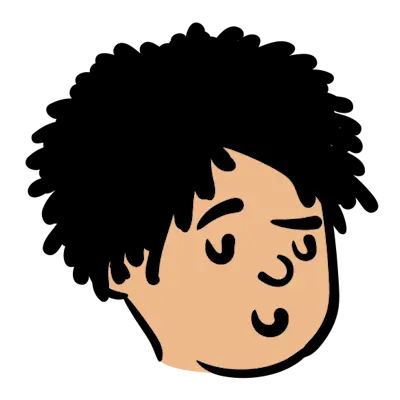
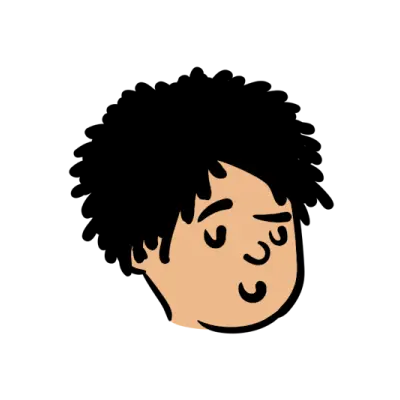
fix: last small changes

diff --git a/src/modules/landing/home/UserTestimoniesSection.tsx b/src/modules/landing/home/UserTestimoniesSection.tsx
@@ -11,41 +11,46 @@ const Testimonies = [
   {
     name: 'Tom',
     title: 'Student',
-    image: '/illustration/users/peeps5_n.webp',
+    image: '/illustration/users/peeps1.webp',
     text: 'I really liked working with Graasp, it motivates the students and they want to learn on their own.',
   },
   {
     name: 'Hanna',
-    image: '/illustration/users/peeps3_n.webp',
+    image: '/illustration/users/peeps2.webp',
     text: 'Graasp is awesome, I think you should use it.',
   },
   {
     name: 'Hank from Tank',
-    image: '/illustration/users/peeps8_n.webp',
+    image: '/illustration/users/peeps3.webp',
     text: 'From the very first interaction, I felt genuinely cared for and supported. The level of professionalism and attention to detail is unmatched, and the team went above and beyond to ensure that every need was met.',
   },
   {
     name: 'Captain Cook',
     title: 'Great explorer, unfortunately recently deceased',
-    image: '/illustration/users/peeps2_n.webp',
+    image: '/illustration/users/peeps4.webp',
     text: "I can't speak highly enough about my experience with Graasp. From start to finish, they made the entire process seamless and stress-free. Their expertise and dedication were evident in every step, and they truly went the extra mile to make sure I was satisfied.",
   },
   {
     name: 'Frizbelouski',
     title: 'Professional bowler in the US',
-    image: '/illustration/users/peeps1_n.webp',
+    image: '/illustration/users/peeps5.webp',
     text: 'From the very first interaction, I felt genuinely cared for and supported. The level of professionalism and attention to detail is unmatched, and the team went above and beyond to ensure that every need was met.',
   },
   {
     name: 'Tobby Kenoby',
     title: 'Master Jedi',
-    image: '/illustration/users/peeps7_n.webp',
+    image: '/illustration/users/peeps6.webp',
     text: 'Just great!',
   },
   {
     name: 'Stranger',
-    image: '/illustration/users/peeps4_n.webp',
+    image: '/illustration/users/peeps7.webp',
     text: "Haven't used too much...",
+  },
+  {
+    name: 'Moon Explorer',
+    image: '/illustration/users/peeps8.webp',
+    text: 'A bit like Google drive. Just the worst parts.',
   },
 ] as const;
 
@@ -65,7 +70,7 @@ export function UserTestimoniesSection() {
         {t('TITLE')}
       </Typography>
       <Masonry
-        sx={{ width: '100%', alignContent: 'center', margin: 4 }}
+        sx={{ width: '100%', alignContent: 'center' }}
         columns={{ sm: 2, md: 3, lg: 5 }}
         spacing={2}
         defaultColumns={6}
